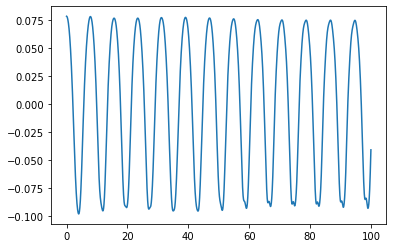
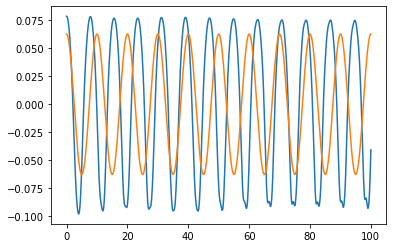
deploy: d06f61c5631f7bd279c6636597b643dc9158cdf0

diff --git a/searchindex.js b/searchindex.js
@@ -1,1 +1,1 @@
-Search.setIndex({docnames:["axial-vibration1d","bar1d-vibration","intro","mpm-code"],envversion:{"sphinx.domains.c":2,"sphinx.domains.changeset":1,"sphinx.domains.citation":1,"sphinx.domains.cpp":5,"sphinx.domains.index":1,"sphinx.domains.javascript":2,"sphinx.domains.math":2,"sphinx.domains.python":3,"sphinx.domains.rst":2,"sphinx.domains.std":2,"sphinx.ext.intersphinx":1,"sphinxcontrib.bibtex":9,sphinx:56},filenames:["axial-vibration1d.ipynb","bar1d-vibration.ipynb","intro.md","mpm-code.md"],objects:{},objnames:{},objtypes:{},terms:{"0":[0,1],"001":1,"01":[0,1],"039478417604357434":1,"05":1,"0x10ffb6910":0,"1":[0,2],"10":1,"100":0,"13":0,"15915494309189535":1,"1d":2,"1e":0,"2":[0,2],"2002":2,"2003":2,"2018":2,"25":0,"2d":0,"2l":0,"3":2,"4":[1,2],"5":[0,1],"5005":1,"6":2,"649":2,"664":2,"case":1,"do":1,"function":0,"import":[0,1],"int":[0,1],"new":2,"return":[0,1],"while":2,A:2,As:1,At:1,For:[1,2],In:[0,1],It:2,One:2,The:[0,1,2],These:1,_:[0,1],_i:1,_p:1,ab:[0,1],acceler:[1,2],advanc:1,after:[1,2],algorithm:[1,2],all:1,an:1,analyt:0,analytical_vibr:1,append:[0,1],appli:0,approach:2,ar:[0,1,2],arang:1,arrai:[0,1],arrow:2,assign:2,assum:1,automat:2,averag:2,avoid:1,axial:2,axial_vibration_bar1d:0,b1:[0,1],b2:1,b:1,b_i:1,back:[1,2],background:2,balanc:2,bar:2,bardenhagen:2,base:[0,1,2],bc:1,been:2,begin:[1,2],being:2,below:1,beta1:0,beta_1:0,between:1,bodi:1,boldsymbol:1,book:2,both:[1,2],boundari:0,c:[0,1],calcul:2,call:2,cambridg:2,cdot:1,center:0,central:0,co:[0,1],code:2,collect:2,combin:2,compar:1,comparison:2,comput:[0,2],condit:0,configur:1,conserv:2,consid:1,consist:1,constant:[1,2],constitut:[1,2],constrain:1,context:2,continuum:0,coordin:1,crack:2,creat:0,crit:1,d:1,def:[0,1],defin:1,deform:[0,2],delta:2,denot:1,densiti:1,depend:2,deriv:[0,1],descrit:1,determin:2,develop:1,displac:1,dissert:2,dissip:2,distribut:1,divid:1,dn1:0,dn2:0,dn:1,doctor:2,doe:2,domain:0,dot:1,dstrain:[0,1],dstrain_p:1,dt:[0,1],dt_crit:[0,1],dtype:0,durat:[0,1],dv:1,dx:[0,1],e:[0,1],each:[0,1,2],effect:2,el_length:1,elast:[0,1],element:[0,1],els:1,end:[0,1,2],energi:[1,2],enforc:2,engin:2,entir:1,entiti:3,equal:[0,1],equat:[1,2],equival:1,etc:[1,2],eulerian:2,evenli:1,exact:[0,1],exampl:1,exp:1,explicit:[1,2],explicitli:2,ext:1,f:[0,1],f_ext_n:1,f_int_n:[0,1],f_total_n:1,feel:2,figur:2,find:1,first:2,fix:1,floor:0,follow:1,forc:0,format:1,formul:2,found:2,frac:[0,1,2],frequenc:0,full:1,g:1,gener:1,get:[0,1],give:2,global:1,govern:2,grad_v:0,gradf_p:0,gradient:[0,1],grid:[0,1,2],ha:[1,2],have:2,henc:1,here:1,howev:[1,2],hybrid:2,i:[0,1,2],id:0,ii:1,iii:1,illustr:2,implement:[1,2],impos:1,increament:1,increas:2,increment:1,independ:1,initi:0,initialis:1,intern:0,interpol:[1,2],intial:0,iter:0,its:1,iv:1,j:2,ke_t:1,keep:1,kinemat:2,kinet:1,kinetic_energi:1,known:2,kularathna:2,l:[0,1],l_x:1,label:[0,1],lagrangian:2,larg:2,last:[1,2],law:2,le:1,left:1,legend:[0,1],len:[0,1],length:[0,1],let:[0,1],limits_:1,line2d:0,line:0,linear:[0,1],linewidth:[0,1],linspac:0,list:1,load:0,locat:1,m:[0,1],m_i:1,m_p:1,map:0,markers:1,mass:[0,2],mass_n:[0,1],mass_nod:1,mass_p:[0,1],materi:0,mathbf:1,matplotlib:[0,1],mesh:[1,2],middl:1,mode:0,model:[0,1,2],modifi:2,modulu:[0,1],mom_n:0,momenta:1,momentum:[0,2],motion:2,move:2,musl:2,must:1,mv_n:1,mv_p:1,n1:[0,1],n2:[0,1],n:1,n_i:1,n_n:1,n_p:1,nairn:2,natur:1,nelement:[0,1],newton:2,next:1,nid1:0,nid2:0,nid:0,nnode:[0,1],nodal:[0,2],node:[0,2],now:[0,1],np:[0,1],nparticl:[0,1],nstep:[0,1],number:[0,1],numer:2,numpi:[0,1],nv1:0,nv2:0,ob:1,observ:2,omega1:0,omega:1,omega_1:0,ones:0,onto:2,order:1,origin:2,other:2,overlaid:2,overview:[1,3],p:[1,2],param:0,particl:[0,2],particularli:2,pi:[0,1],plot:0,plt:[0,1],pmid:0,point:0,posit:[0,2],prefer:1,print:1,problem:1,progress:0,project:2,properti:0,put:1,pyplot:[0,1],quad:1,quantiti:1,r:[0,1],rang:[0,1],rate:1,rather:1,re:1,relationship:2,remap:1,repeat:1,repres:[1,2],represent:2,reproduc:2,reset:[0,1,2],result:2,rho:[0,1],right:1,s:[0,1,2],sampl:2,satisfi:2,scheme:2,scienc:2,se_t:1,set:[0,1],shape:0,show:[0,1,2],shown:[1,2],sigma:[1,2],sigma_p:1,similarli:1,simul:1,sin:[0,1],sinc:1,singl:1,size:[1,2],slow:2,small:2,smaller:1,so:1,solut:[0,2],solv:2,sound:0,space:0,speed:[0,1],split:[1,2],sqrt:[0,1],start:1,state:2,step:[0,2],store:1,strain:2,strain_energi:1,strain_p:1,strain_rat:1,strain_rate_p:1,stress:[0,2],stress_p:[0,1],strongli:2,studi:0,subscript:2,sum:1,system:[0,1],t:[0,2],t_:1,ta:[0,1],te_t:1,tensor:2,text:1,textbf:1,than:1,thi:[1,2],through:0,throughout:1,time:[0,2],time_t:1,togeth:1,tol:0,toler:0,tot:1,total_energi:1,track:1,tt:[0,1],two:[1,2],typic:1,u:0,undeform:1,univers:2,unstress:1,up:[0,1],updat:[0,2],us:[0,1,2],usavg:2,usf:2,usl:2,v0:[0,1],v:[0,1,2],v_0:[0,1],v_n:1,v_p:1,va:[0,1],valu:[0,2],varepsilon:[1,2],variabl:1,vector:2,vel_n:1,vel_p:[0,1],vel_t:1,veloc:[0,2],veri:2,versa:1,version:2,vi:1,vibrat:2,vice:1,vol0_p:0,vol_p:[0,1],volum:[0,1,2],vt:[0,1],w1:0,wa:2,wave:1,we:1,where:[0,1],which:[1,2],within:2,work:0,x:[0,1,2],x_0:1,x_i:1,x_loc:1,x_n:0,x_p:[0,1],x_t:1,xa:[0,1],xlabel:[0,1],xs:1,xt:[0,1],y:1,ylabel:[0,1],you:2,young:[0,1],zero:[0,1],zeros_lik:1},titles:["Axial vibration of a 1D bar","Solving 1D vibrating bar with Material Point Method","Welcome to learn MPM with Python","Coding 1D MPM"],titleterms:{"1":1,"1d":[0,1,3],"2":1,"function":1,analyt:1,appli:1,axial:0,bar:[0,1],boundari:1,calcul:1,code:[1,3],complet:1,comput:1,condit:1,critic:1,delta:1,domain:1,extern:1,forc:1,from:1,initi:1,intern:1,learn:2,load:1,map:1,mass:1,materi:[1,2],method:[1,2],momentum:1,mpm:[0,1,2,3],nodal:1,node:1,particl:1,phase:1,plot:1,point:[1,2],posit:1,properti:1,python:2,result:1,scheme:1,shape:1,solut:1,solv:1,step:1,strain:1,stress:1,t:1,time:1,total:1,unbalanc:1,updat:1,usl:1,veloc:1,vibrat:[0,1],welcom:2}})
+Search.setIndex({docnames:["axial-vibration1d","bar1d-vibration","intro","mpm-code"],envversion:{"sphinx.domains.c":2,"sphinx.domains.changeset":1,"sphinx.domains.citation":1,"sphinx.domains.cpp":5,"sphinx.domains.index":1,"sphinx.domains.javascript":2,"sphinx.domains.math":2,"sphinx.domains.python":3,"sphinx.domains.rst":2,"sphinx.domains.std":2,"sphinx.ext.intersphinx":1,"sphinxcontrib.bibtex":9,sphinx:56},filenames:["axial-vibration1d.ipynb","bar1d-vibration.ipynb","intro.md","mpm-code.md"],objects:{},objnames:{},objtypes:{},terms:{"0":[0,1],"001":1,"01":[0,1],"039478417604357434":1,"05":1,"0x11b0e7d30":0,"1":[0,2],"10":1,"100":0,"13":0,"15915494309189535":1,"1d":2,"1e":0,"2":[0,2],"2002":2,"2003":2,"2018":2,"25":0,"2d":0,"2l":0,"3":2,"4":[1,2],"5":[0,1],"5005":1,"6":2,"649":2,"664":2,"case":1,"do":1,"function":0,"import":[0,1],"int":[0,1],"new":2,"return":[0,1],"while":2,A:2,As:1,At:1,For:[1,2],In:[0,1],It:2,One:2,The:[0,1,2],These:1,_:[0,1],_i:1,_p:1,ab:[0,1],acceler:[1,2],advanc:1,after:[1,2],algorithm:[1,2],all:1,an:1,analyt:0,analytical_vibr:1,append:[0,1],appli:0,approach:2,ar:[0,1,2],arang:1,arrai:[0,1],arrow:2,assign:2,assum:1,automat:2,averag:2,avoid:1,axial:2,axial_vibration_bar1d:0,b1:[0,1],b2:1,b:1,b_i:1,back:[1,2],background:2,balanc:2,bar:2,bardenhagen:2,base:[0,1,2],bc:1,been:2,begin:[1,2],being:2,below:1,beta1:0,beta_1:0,between:1,bodi:1,boldsymbol:1,book:2,both:[1,2],boundari:0,c:[0,1],calcul:2,call:2,cambridg:2,cdot:1,center:0,central:0,co:[0,1],code:2,collect:2,combin:2,compar:1,comparison:2,comput:[0,2],condit:0,configur:1,conserv:2,consid:1,consist:1,constant:[1,2],constitut:[1,2],constrain:1,context:2,continuum:0,coordin:1,crack:2,creat:0,crit:1,d:1,def:[0,1],defin:1,deform:[0,2],delta:2,denot:1,densiti:1,depend:2,deriv:[0,1],descrit:1,determin:2,develop:1,displac:1,dissert:2,dissip:2,distribut:1,divid:1,dn1:0,dn2:0,dn:1,doctor:2,doe:2,domain:0,dot:1,dstrain:[0,1],dstrain_p:1,dt:[0,1],dt_crit:[0,1],dtype:0,durat:[0,1],dv:1,dx:[0,1],e:[0,1],each:[0,1,2],effect:2,el_length:1,elast:[0,1],element:[0,1],els:1,end:[0,1,2],energi:[1,2],enforc:2,engin:2,entir:1,entiti:3,equal:[0,1],equat:[1,2],equival:1,etc:[1,2],eulerian:2,evenli:1,exact:[0,1],exampl:1,exp:1,explicit:[1,2],explicitli:2,ext:1,f:[0,1],f_ext_n:1,f_int_n:[0,1],f_total_n:1,feel:2,figur:2,find:1,first:2,fix:1,floor:0,follow:1,forc:0,format:1,formul:2,found:2,frac:[0,1,2],frequenc:0,full:1,g:1,gener:1,get:[0,1],give:2,global:1,govern:2,grad_v:0,gradf_p:0,gradient:[0,1],grid:[0,1,2],ha:[1,2],have:2,henc:1,here:1,howev:[1,2],hybrid:2,i:[0,1,2],id:0,ii:1,iii:1,illustr:2,implement:[1,2],impos:1,increament:1,increas:2,increment:1,independ:1,initi:0,initialis:1,intern:0,interpol:[1,2],intial:0,iter:0,its:1,iv:1,j:2,ke_t:1,keep:1,kinemat:2,kinet:1,kinetic_energi:1,known:2,kularathna:2,l:[0,1],l_x:1,label:[0,1],lagrangian:2,larg:2,last:[1,2],law:2,le:1,left:1,legend:[0,1],len:[0,1],length:[0,1],let:[0,1],limits_:1,line2d:0,line:0,linear:[0,1],linewidth:[0,1],linspac:0,list:1,load:0,locat:1,m:[0,1],m_i:1,m_p:1,map:0,markers:1,mass:[0,2],mass_n:[0,1],mass_nod:1,mass_p:[0,1],materi:0,mathbf:1,matplotlib:[0,1],mesh:[1,2],middl:1,mode:0,model:[0,1,2],modifi:2,modulu:[0,1],mom_n:0,momenta:1,momentum:[0,2],motion:2,move:2,musl:2,must:1,mv_n:1,mv_p:1,n1:[0,1],n2:[0,1],n:1,n_i:1,n_n:1,n_p:1,nairn:2,natur:1,nelement:[0,1],newton:2,next:1,nid1:0,nid2:0,nid:0,nnode:[0,1],nodal:[0,2],node:[0,2],now:[0,1],np:[0,1],nparticl:[0,1],nstep:[0,1],number:[0,1],numer:2,numpi:[0,1],nv1:0,nv2:0,ob:1,observ:2,omega1:0,omega:1,omega_1:0,ones:0,onto:2,order:1,origin:2,other:2,overlaid:2,overview:[1,3],p:[1,2],param:0,particl:[0,2],particularli:2,pi:[0,1],plot:0,plt:[0,1],pmid:0,point:0,posit:[0,2],prefer:1,print:1,problem:1,progress:0,project:2,properti:0,put:1,pyplot:[0,1],quad:1,quantiti:1,r:[0,1],rang:[0,1],rate:1,rather:1,re:1,relationship:2,remap:1,repeat:1,repres:[1,2],represent:2,reproduc:2,reset:[0,1,2],result:2,rho:[0,1],right:1,s:[0,1,2],sampl:2,satisfi:2,scheme:2,scienc:2,se_t:1,set:[0,1],shape:0,show:[0,1,2],shown:[1,2],sigma:[1,2],sigma_p:1,similarli:1,simul:1,sin:[0,1],sinc:1,singl:1,size:[1,2],slow:2,small:2,smaller:1,so:1,solut:[0,2],solv:2,sound:0,space:0,speed:[0,1],split:[1,2],sqrt:[0,1],start:1,state:2,step:[0,2],store:1,strain:2,strain_energi:1,strain_p:1,strain_rat:1,strain_rate_p:1,stress:[0,2],stress_p:[0,1],strongli:2,studi:0,subscript:2,sum:1,system:[0,1],t:[0,2],t_:1,ta:[0,1],te_t:1,tensor:2,text:1,textbf:1,than:1,thi:[1,2],through:0,throughout:1,time:[0,2],time_t:1,togeth:1,tol:0,toler:0,tot:1,total_energi:1,track:1,tt:[0,1],two:[1,2],typic:1,u:0,undeform:1,univers:2,unstress:1,up:[0,1],updat:[0,2],us:[0,1,2],usavg:2,usf:2,usl:2,v0:[0,1],v:[0,1,2],v_0:[0,1],v_n:1,v_p:1,va:[0,1],valu:[0,2],varepsilon:[1,2],variabl:1,vector:2,vel_n:1,vel_p:[0,1],vel_t:1,veloc:[0,2],veri:2,versa:1,version:2,vi:1,vibrat:2,vice:1,vol0_p:0,vol_p:[0,1],volum:[0,1,2],vt:[0,1],w1:0,wa:2,wave:1,we:1,where:[0,1],which:[1,2],within:2,work:0,x:[0,1,2],x_0:1,x_i:1,x_loc:1,x_n:0,x_p:[0,1],x_t:1,xa:[0,1],xlabel:[0,1],xs:1,xt:[0,1],y:1,ylabel:[0,1],you:2,young:[0,1],zero:[0,1],zeros_lik:1},titles:["Axial vibration of a 1D bar","Solving 1D vibrating bar with Material Point Method","Welcome to learn MPM with Python","Coding 1D MPM"],titleterms:{"1":1,"1d":[0,1,3],"2":1,"function":1,analyt:1,appli:1,axial:0,bar:[0,1],boundari:1,calcul:1,code:[1,3],complet:1,comput:1,condit:1,critic:1,delta:1,domain:1,extern:1,forc:1,from:1,initi:1,intern:1,learn:2,load:1,map:1,mass:1,materi:[1,2],method:[1,2],momentum:1,mpm:[0,1,2,3],nodal:1,node:1,particl:1,phase:1,plot:1,point:[1,2],posit:1,properti:1,python:2,result:1,scheme:1,shape:1,solut:1,solv:1,step:1,strain:1,stress:1,t:1,time:1,total:1,unbalanc:1,updat:1,usl:1,veloc:1,vibrat:[0,1],welcom:2}})

diff --git a/axial-vibration1d.html b/axial-vibration1d.html
@@ -446,6 +446,9 @@ plt.show()
 </pre></div>
 </div>
 </div>
+<div class="cell_output docutils container">
+<img alt="_images/axial-vibration1d_3_0.png" src="_images/axial-vibration1d_3_0.png" />
+</div>
 </div>
 <section id="mpm-axial-vibration-of-a-1d-bar">
 <h2>MPM axial vibration of a 1D bar<a class="headerlink" href="#mpm-axial-vibration-of-a-1d-bar" title="Permalink to this headline">#</a></h2>
@@ -583,7 +586,7 @@ for step in range(nsteps):
         nv2 = mom_n[nid2]/mass_n[nid2]
 
         # Apply boundary condition
-        if (nid1 == 0): nv1 = 0
+        # if (nid1 == 0): nv1 = 0
 
         # particle gradient velocity
         grad_v = dN1 * nv1 + dN2 * nv2
@@ -604,11 +607,12 @@ for step in range(nsteps):
     t = t + dt
 
 plt.plot(tt, vt)
+plt.plot(ta, va)
 </pre></div>
 </div>
 </div>
 <div class="cell_output docutils container">
-<div class="output text_plain highlight-myst-ansi notranslate"><div class="highlight"><pre><span></span>[&lt;matplotlib.lines.Line2D at 0x10ffb6910&gt;]
+<div class="output text_plain highlight-myst-ansi notranslate"><div class="highlight"><pre><span></span>[&lt;matplotlib.lines.Line2D at 0x11b0e7d30&gt;]
 </pre></div>
 </div>
 <img alt="_images/axial-vibration1d_6_1.png" src="_images/axial-vibration1d_6_1.png" />
